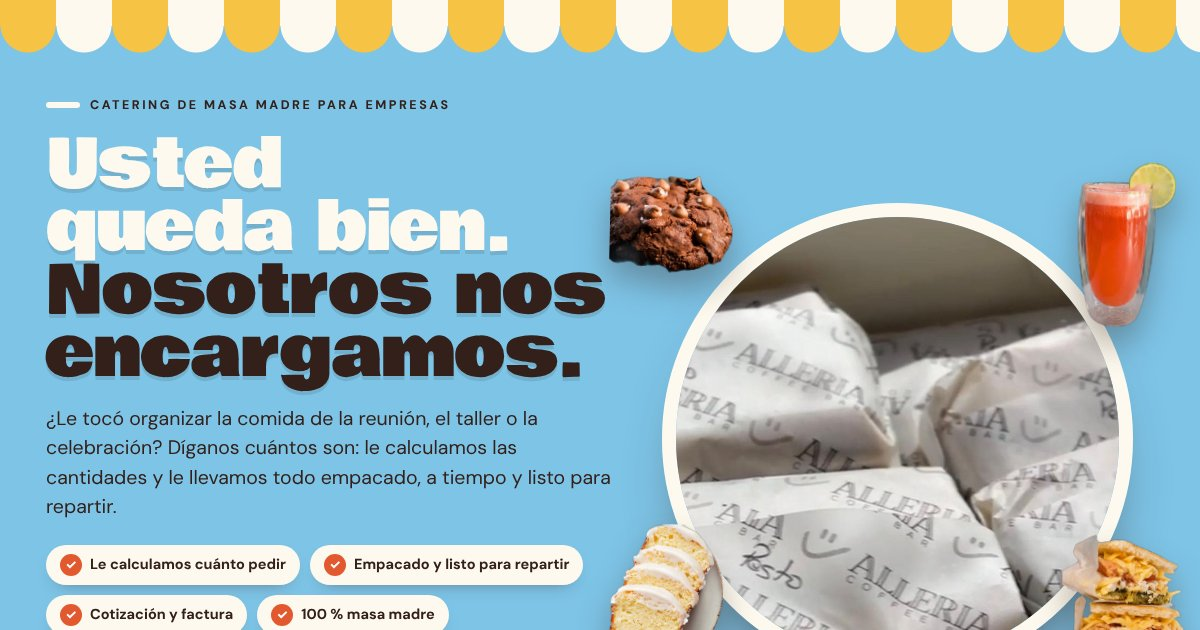
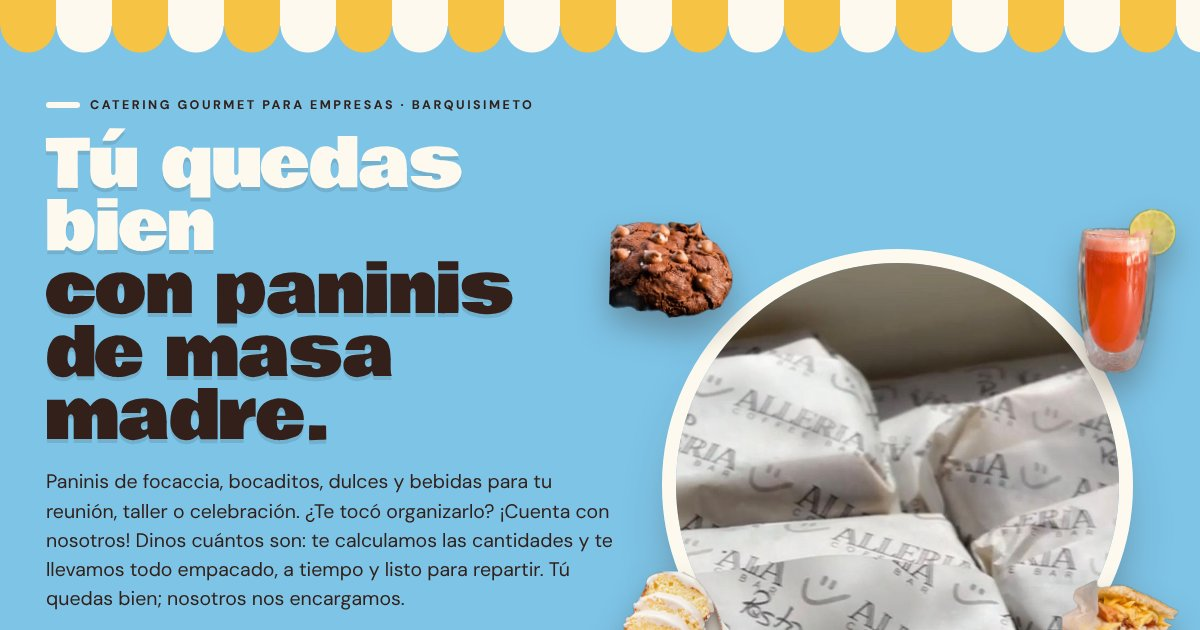
Catering: título y vista previa que dicen catering gourmet de paninis de masa madre
Claude-Session: https://claude.ai/code/session_01MsKkSdx1i6pfUNyJbxZXz2

diff --git a/catering.html b/catering.html
@@ -3,12 +3,12 @@
 <head>
 <meta charset="UTF-8">
 <meta name="viewport" content="width=device-width,initial-scale=1,viewport-fit=cover">
-<title>Catering de masa madre · Alleria</title>
+<title>Catering gourmet de paninis de masa madre · Alleria</title>
 <meta name="description" content="Catering de masa madre para empresas en Barquisimeto: te calculamos las cantidades, te llevamos todo empacado y listo para repartir, o montamos el evento completo.">
 <meta name="robots" content="noindex, follow">
 <meta property="og:type" content="website">
-<meta property="og:title" content="Tú quedas bien. Nosotros nos encargamos. · Catering Alleria">
-<meta property="og:description" content="Catering de masa madre para empresas: empacado y listo para repartir, o el evento montado completo.">
+<meta property="og:title" content="Catering gourmet de paninis de masa madre · Alleria">
+<meta property="og:description" content="Tú quedas bien con paninis de masa madre en tu reunión o evento. Te llevamos todo listo para repartir, o montamos el evento completo. Barquisimeto.">
 <meta property="og:image" content="https://alleria-website.vercel.app/assets/catering/og.jpg">
 <meta property="og:url" content="https://alleria-website.vercel.app/catering">
 <meta name="twitter:card" content="summary_large_image">
@@ -305,7 +305,8 @@ footer .cols{display:grid;grid-template-columns:repeat(3,minmax(0,1fr));gap:20px
 footer b{display:block;font-size:12px;letter-spacing:.16em;text-transform:uppercase;opacity:.7;margin-bottom:6px}
 footer a{color:var(--crema)}
 .dock{position:fixed;left:10px;right:10px;bottom:calc(10px + env(safe-area-inset-bottom,0px));z-index:50;background:var(--tinta);color:var(--crema);border-radius:20px;padding:10px 10px 10px 16px;display:none;align-items:center;gap:12px;box-shadow:0 18px 40px -12px rgba(0,0,0,.55);transform:translateY(160%);transition:transform .35s var(--ease)}
-.dock.show{transform:none}
+.dock:not(.show){visibility:hidden;transition:transform .35s var(--ease),visibility 0s .35s}
+.dock.show{transform:none;visibility:visible}
 .dock .t{flex:1;min-width:0;line-height:1.2;font-size:13px}
 .dock .t b{display:block;font-size:16px}
 .dock .btn{padding:12px 16px;font-size:14.5px}
@@ -368,9 +369,9 @@ footer a{color:var(--crema)}
   <div class="awning" aria-hidden="true"></div>
   <div class="wrap hgrid">
     <div>
-      <span class="kick">Catering de masa madre para empresas</span>
-      <h1>Tú quedas bien.<span>Nosotros nos encargamos.</span></h1>
-      <p class="lede">¿Te tocó organizar la comida de la reunión, el taller o la celebración? ¡Cuenta con nosotros! Dinos cuántos son: te calculamos las cantidades y te llevamos todo empacado, a tiempo y listo para repartir.</p>
+      <span class="kick">Catering gourmet para empresas · Barquisimeto</span>
+      <h1>Tú quedas bien<span>con paninis de masa madre.</span></h1>
+      <p class="lede">Paninis de focaccia, bocaditos, dulces y bebidas para tu reunión, taller o celebración. ¿Te tocó organizarlo? ¡Cuenta con nosotros! Dinos cuántos son: te calculamos las cantidades y te llevamos todo empacado, a tiempo y listo para repartir. Tú quedas bien; nosotros nos encargamos.</p>
       <div class="chips">
         <span class="chip"><i>✓</i>Te calculamos cuánto pedir</span>
         <span class="chip"><i>✓</i>Empacado y listo para repartir</span>
